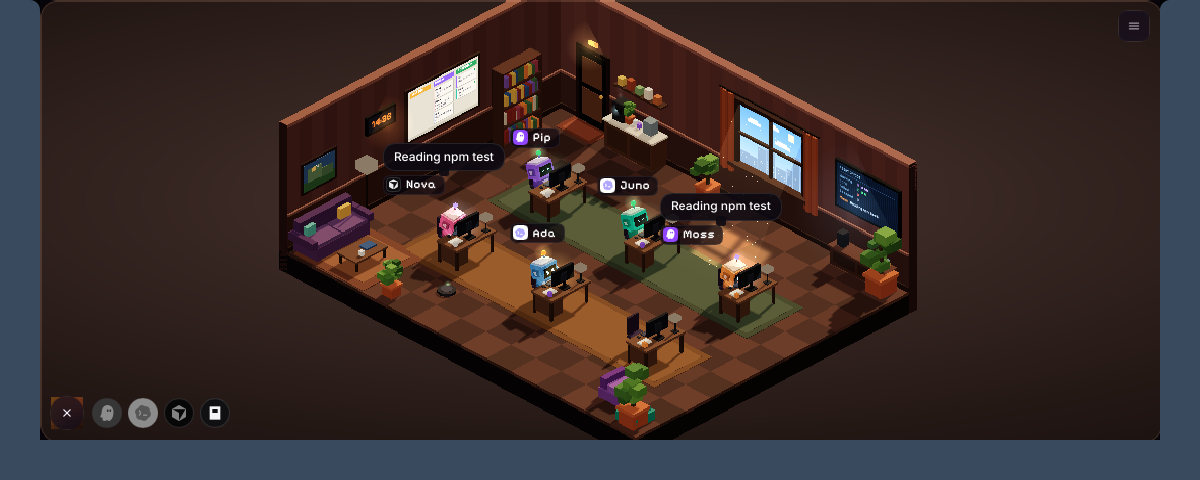
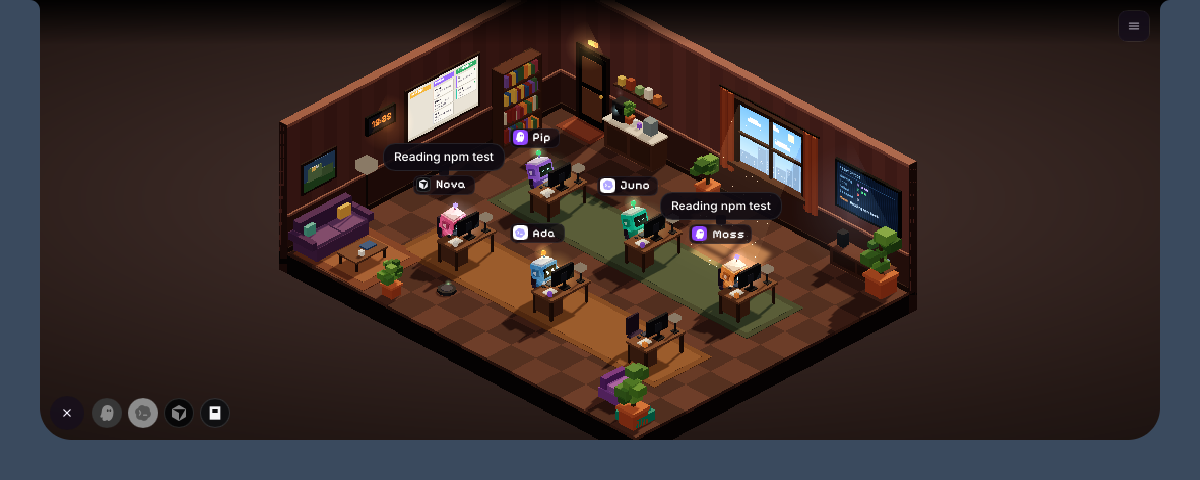
Office frame and tags as main's page: no rounded corners or border in the notch (body.host #office), the name centred under its bubble, no line on the new-task circle, the notch's top fade; shots without the software renderer's square corners

diff --git a/native/crates/hover-office/src/page.rs b/native/crates/hover-office/src/page.rs
@@ -1,6 +1,7 @@
 //! What page.html lays around and over the canvas in host mode: #office's radial
-//! background (night or day), the ::after vignette, the 16 px rounded corners and the
-//! 1 px border, over the body's #07050a. CSS gradients are interpolated premultiplied
+//! background (night or day) and the ::after vignette. Since 639c01c the page drops
+//! #office's rounded corners and border in Hover (body.host #office), so the office
+//! fills its box edge to edge. CSS gradients are interpolated premultiplied
 //! in sRGB; ellipse radii are percentages of the box.
 
 use crate::canvas::css;
@@ -22,12 +23,10 @@ fn radial(x: f64, y: f64, w: f64, h: f64, r: (f64, f64), at: (f64, f64), stops: 
 }
 
 /// The office as the page shows it: the frame (premultiplied RGBA8 from the renderer)
-/// over the background, the vignette over both, the corners and border. RGB8.
+/// over the background, and the vignette over both. RGB8.
 pub fn compose(frame: &[u8], w: usize, h: usize, day: bool) -> Vec<u8> {
     let bg: [(f64, [f64; 4]); 3] = if day { [(0.0, css("#4a3530")), (0.6, css("#241815")), (1.0, css("#0e0a09"))] } else { [(0.0, css("#2a1824")), (0.55, css("#150c14")), (1.0, css("#07050a"))] };
     let vig = [(0.0, [0.0, 0.0, 0.0, 0.0]), (0.6, [0.0, 0.0, 0.0, 0.0]), (1.0, [0.0, 0.0, 0.0, 0.45])];
-    let body = css("#07050a");
-    let border = css("rgba(255,190,150,.16)");
     let (fw, fh) = (w as f64, h as f64);
     let mut out = Vec::with_capacity(w * h * 3);
     for y in 0..h { for x in 0..w {
@@ -38,23 +37,13 @@ pub fn compose(frame: &[u8], w: usize, h: usize, day: bool) -> Vec<u8> {
         let mut c: [f64; 3] = std::array::from_fn(|k| f[k] as f64 / 255.0 + b[k] * (1.0 - fa));
         let v = radial(px, py, fw, fh, (1.3, 1.0), (0.5, 0.5), &vig);
         for k in 0..3 { c[k] = v[k] + c[k] * (1.0 - v[3]); }
-        // The 1 px border inside the 16 px rounded box, and the body outside it.
-        let r = 16.0;
-        let (qx, qy) = ((px - r).min(fw - r - px).min(0.0), (py - r).min(fh - r - py).min(0.0));
-        let d = r - qx.hypot(qy);
-        let edge = px.min(fw - px).min(py).min(fh - py);
-        let inside = (d + 0.5).clamp(0.0, 1.0) * if qx < 0.0 && qy < 0.0 { 1.0 } else { (edge + 0.5).clamp(0.0, 1.0) };
-        let dist = if qx < 0.0 && qy < 0.0 { d } else { edge };
-        let on_border = (1.5 - dist).clamp(0.0, 1.0) * (dist + 0.5).clamp(0.0, 1.0);
-        for k in 0..3 { c[k] = border[k] * border[3] * on_border + c[k] * (1.0 - border[3] * on_border); }
-        for k in 0..3 { c[k] = c[k] * inside + body[k] * (1.0 - inside); }
         out.extend(c.map(|v| (v * 255.0).round().clamp(0.0, 255.0) as u8));
     } }
     out
 }
 
 /// compose(), with what doesn't change from frame to frame (the background, the
-/// vignette, the corners and the border) worked out once per size and time of day.
+/// vignette) worked out once per size and time of day.
 #[derive(Default)]
 pub struct Composer { key: (usize, usize, bool), under: Vec<[f32; 3]>, over: Vec<[f32; 4]> }
 

diff --git a/native/apps/hover/src/shots.rs b/native/apps/hover/src/shots.rs
@@ -79,6 +79,26 @@ fn save(w: &Rc<MinimalSoftwareWindow>, size: (u32, u32), scale: f32, backdrop: [
         });
         img.put_pixel((i % pw) as u32, (i / pw) as u32, image::Rgb(px));
     }
+    // The notch clips its open view to the shape's rounded bottom corners, which the
+    // software renderer can't: the corners are cut here as the GPU renderers cut them.
+    let notch = Rc::ptr_eq(w, &adapter(0));
+    let cut = crate::APP.with(|a| a.borrow().as_ref().filter(|a| notch && a.notch.get_view_visible())
+        .map(|a| (a.notch.get_shape_x(), a.notch.get_shape_w(), a.notch.get_shape_h(), a.notch.get_shape_r())));
+    if let Some((sx, sw, sh, r)) = cut {
+        let k = scale;
+        let (x0, x1, y1, r) = (sx * k, (sx + sw) * k, sh * k, r * k);
+        for y in 0..ph { for x in 0..pw {
+            let (px, py) = (x as f32 + 0.5, y as f32 + 0.5);
+            if py < y1 - r || py > y1 || px < x0 || px > x1 { continue; }
+            let cx = if px < x0 + r { x0 + r } else if px > x1 - r { x1 - r } else { continue };
+            let d = (px - cx).hypot(py - (y1 - r)) - r;
+            let a = (d + 0.5).clamp(0.0, 1.0);
+            if a > 0.0 {
+                let o = *img.get_pixel(x as u32, y as u32);
+                img.put_pixel(x as u32, y as u32, image::Rgb([0, 1, 2].map(|c| (o[c] as f32 * (1.0 - a) + backdrop[c] as f32 * a).round() as u8)));
+            }
+        } }
+    }
     img.save(file).expect("the shot is written");
     println!("{}", file.display());
 }
@@ -134,6 +154,9 @@ pub fn run(dir: &Path) {
     });
     let hover = hover_app::app::Hover::with(settings, None, vec![], Some(run), Some(reader));
     let app = App::new(hover.clone(), Box::new(Plain), Look { dark: true, animations: true }, true);
+    // The software renderer doesn't clip to rounded corners: the glass's blurred copy
+    // of the scene would show as a square behind each rounded panel.
+    app.notch.global::<Backdrop>().set_live(false);
     let notch = adapter(0);
     let size = |a: &App| { let n = a.n.borrow(); ((n.win.width()) as u32, (n.win.height()) as u32) };
     let desk = [0x3a, 0x4a, 0x5e];
@@ -317,6 +340,7 @@ pub fn run(dir: &Path) {
 
     // Settings in the app window, every section, dark and light.
     app.open_dashboard(true);
+    if let Some(d) = &*app.dash.borrow() { d.global::<Backdrop>().set_live(false); }
     let dash = adapter(1);
     for (dark, tag) in [(true, "dark"), (false, "light")] {
         hover.settings.set_theme(None);

diff --git a/port/phase7/REPORT.md b/port/phase7/REPORT.md
@@ -26,7 +26,11 @@ page in `native/golden/page/` and `web/office/` are 55111fc's now.
   marked as refused).
 - `cargo check --target x86_64-pc-windows-msvc --workspace --all-targets`: green. Clippy:
   nothing new.
-- Pictures: `shots/` (the port, headless and under Xvfb), `main/` (main's page).
+- Pictures: `shots/` (the port, headless and under Xvfb), `main/` (main's page). The
+  headless shots are drawn by the software renderer, which can't clip to rounded
+  corners: they leave out the glass's blur and cut the notch's bottom corners as the GPU
+  renderers do. `e2e-*` are the real app (femtovg) under Xvfb; the white specks at the
+  notch's top corners there are Xvfb's lack of a compositor.
 
 ## What was ported
 
@@ -46,7 +50,7 @@ page in `native/golden/page/` and `web/office/` are 55111fc's now.
 ## Found and fixed
 
 Beyond OpenCode itself, comparing the office with main's page and running it end to end
-turned up these, all in the port's UI:
+turned up these (11 to 14 after review of the pictures), all in the port's UI:
 
 | # | What differed from main | Fix |
 |---|---|---|
@@ -60,6 +64,10 @@ turned up these, all in the port's UI:
 | 8 | The note before the first task never showed (A9 was left for Phase 2) | KiroPage.Notice in place of the office until Got it |
 | 9 | The task box: the note sat above the bar in amber, no placeholder, no fold button of its own size | Main's order and colours (the note under the bar, faint), the placeholder, `nFold` |
 | 10 | The composer's Default model sent `""` as the model: C# keeps `Str(m, "model")` as given, and OpenCode would then look for a model called "" | Default clears the model (an obvious bug, fixed here only) |
+| 11 | The office kept 59bac1f's frame: 16 px rounded corners and a 1 px light border, which showed as square light corners inside the notch. Since 639c01c the page has none in Hover (`body.host #office`) | `hover-office::page` composes without them |
+| 12 | The name under a bot sat off centre from its bubble | The tag's column sizes itself (a 0-wide layout put its rows off centre) |
+| 13 | The new-task circle had glass's 1 px line; `#fabMain` has none | `Glass.edge` |
+| 14 | The notch's office lacked the top 44 px fade into the notch's black (`body.host.notch #office::before`) | Added |
 
 ## Differences kept, and why
 
